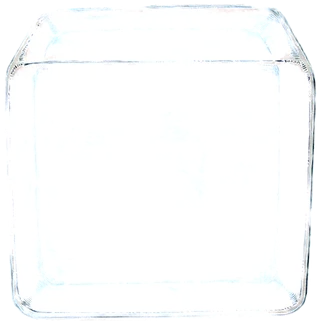
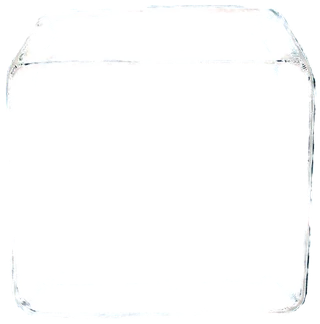
바 얼음 크기 균일 · 무작위 그림 · 와인 잔 1 · 2개, 커피콩 · 마시멜로 · 카르디아 그림, 거품 타일 텍스처 프롬프트
- 얼음: 잔마다 같은 크기 (록 11 · 하이볼 8 · 파인트 10 · 쿠페 8 · 와인 잔 8.5 · 고블릿 10), 그 크기가 들어가는 가장 낮은 자리부터 쌓기 · 그림 4종 중 얼음마다 무작위 (잔 내용 고정 난수) · 와인 잔 조금 1 · 많이 2 (사용자)
- 원본 얼음 3번도 다른 시안과 같은 후처리 3 (굽기 때 pp3)
- 잔 위 가니쉬: 커피콩 2 · 마시멜로 3 · 카르디아 2 (한 개짜리 그림, 콩 · 씨앗 3알 액면에 · 마시멜로 2개)
- 거품: 1차 8장(물체 모양)은 버리고 기포가 넓게 퍼진 타일링용 텍스처 프롬프트로 (bar_foam_1~8)

Claude-Session: https://claude.ai/code/session_017cJYj9TZkj6pZozWGwWEvA

diff --git a/src/ui/drinkart.ts b/src/ui/drinkart.ts
@@ -23,6 +23,10 @@ export const ICE_OPACITY = 0.75;
 /** 떠오른 얼음 중 맨 위 얼음이 수면 위로 나오는 몫 (그 얼음 높이에 대한 비율, 2026-11-04 사용자: 수면을 살짝 — 록 글라스는 조금, 하이볼은 많이 내림) */
 const ICE_RISE: Record<string, number> = { highball: 0.05 };
 const ICE_RISE_DEF = 0.15;
+/** 얼음 한 변 (잔마다 같은 크기 — 2026-11-04 사용자: 크기는 균일하게). 잔 안쪽 폭(위 → 아래)을 보고 정했다: 록 18.9 → 15.4 · 하이볼 15.2 → 10.2 · 파인트 24.6 → 14.5 · 쿠페 27 → 6.9 · 와인 잔 13.5 ~ 17.5 → 10 · 고블릿 24.7 → 12.3 */
+const ICE_SIZE: Record<string, number> = { rock: 11, highball: 8, pint: 10, coupe: 8, wine: 8.5, goblet: 10 };
+/** 얼음 개수 [조금, 많이] 예외 (기본: 3칸 잔 1 · 2, 4 · 5칸 잔 2 · 3) — 와인 잔은 볼이 좁아 1 · 2 (사용자) */
+const ICE_N: Record<string, [number, number]> = { wine: [1, 2] };
 let uid = 0;
 const hex = (c: string) => [1, 3, 5].map((i) => parseInt(c.slice(i, i + 2), 16));
 /** 흰색을 w 만큼 섞은 색 */
@@ -125,31 +129,34 @@ export function drinkSvg(d: Drink, left = 1, cls = 'drink', art: boolean | 'plai
   }
   // 얼음 (2026-11-04 사용자 요청): 조금 = 1 · 2개, 많이 = 2 · 3개 (작은 잔 3칸 / 큰 잔 4 · 5칸). 큰 얼음(잔 안쪽 폭의 62%, 최대 12)을 좌우로 조금씩 엇갈려 층으로 쌓는다.
   //   액면이 쌓인 맨 위보다 높으면 떠오른다 (맨 위 얼음이 4분의 1쯤 액면 위로), 아니면 바닥에 가라앉아 있다. 잔 그림 모드는 얼음 그림 (불투명도 ICE_OPACITY)
-  const nIce = d.ice === 'little' ? ((g?.slots ?? 3) >= 4 ? 2 : 1) : d.ice === 'lots' ? ((g?.slots ?? 3) >= 4 ? 3 : 2) : 0;
+  const iceN = ICE_N[d.glass] ?? ((g?.slots ?? 3) >= 4 ? [2, 3] : [1, 2]);
+  const nIce = d.ice === 'little' ? iceN[0] : d.ice === 'lots' ? iceN[1] : 0;
   if (nIce) {
     const wAt = (y: number): [number, number] => (ga ? wallsAt(ga, y) : [s.rim[0] + 1.5, s.rim[1] - 1.5]);
-    const seed = [...d.glass].reduce((t, ch) => t + ch.charCodeAt(0), d.fill.length);
-    const vOf = (k: number) => (k + seed) % ICE_ART.length; // 얼음 그림 4종을 번갈아
-    const stack = (yb: number) => {
+    // 얼음 그림은 얼음마다 무작위 (같은 잔은 늘 같게 — 다시 그릴 때 바뀌지 않도록 잔 내용으로 고정 난수)
+    const seed = [...`${d.glass}${d.fill.join('')}${d.garnish.join('')}${d.ice}`].reduce((t, ch) => (t * 31 + ch.charCodeAt(0)) % 9973, 7);
+    const vOf = (k: number) => Math.floor(rnd(seed + k * 17) * ICE_ART.length) % ICE_ART.length;
+    // 잔마다 같은 크기 (정사각 상자, 그림 비율 차이는 무시). 아래에서부터, 그 높이에 들어가는 가장 낮은 자리에 놓는다 (좁은 바닥 · 스템 잔 볼)
+    const sz = ga ? ICE_SIZE[d.glass] ?? 9 : Math.min(12, (s.rim[1] - s.rim[0] - 3) * 0.62), h = sz;
+    const fitW = (yb: number) => { const a = wAt(yb - 0.3), b = wAt(yb - h); return Math.min(a[1] - a[0], b[1] - b[0]); };
+    const stack = () => {
       const out: { cx: number; y: number; sz: number; h: number; k: number }[] = [];
-      let y = yb;
+      let y = s.bot;
       for (let k = 0; k < nIce; k++) {
-        const asp = ga ? ICE_ART[vOf(k)] : 1;
-        let [x0, x1] = wAt(y - 3);
-        let sz = Math.min(12, (x1 - x0) * 0.62);
-        [x0, x1] = wAt(y - sz * asp / 2); sz = Math.min(12, (x1 - x0) * 0.62);
-        if (sz < 2.5) break;
-        out.push({ cx: (x0 + x1) / 2 + (k % 2 ? 1 : -1) * (x1 - x0) * 0.12, y, sz, h: sz * asp, k });
-        y -= sz * asp * 0.86;
+        let yb = y;
+        while (yb > s.top && fitW(yb) < sz + 0.8) yb -= 0.25;
+        const [x0, x1] = wAt(yb - h / 2), room = Math.max(0, (x1 - x0 - sz - 0.8) / 2);
+        out.push({ cx: (x0 + x1) / 2 + (k % 2 ? 1 : -1) * Math.min(room, (x1 - x0) * 0.12), y: yb, sz, h, k });
+        y = yb - h * 0.86;
       }
       return out;
     };
-    // 바닥에 쌓은 크기 그대로 떠오른다 (위치만 옮김 — 다시 쌓으면 좁은 곳에서 얼음 수 · 크기가 바뀌어 툭 사라진다)
-    let cubes = stack(s.bot);
+    // 바닥에 쌓은 그대로 떠오른다 (위치만 옮김 — 다시 쌓으면 얼음 수 · 크기가 바뀌어 툭 사라진다)
+    let cubes = stack();
     const last = cubes[cubes.length - 1];
     if (last && lv > 0) { const want = yTop - last.h * (ICE_RISE[d.glass] ?? ICE_RISE_DEF), top = last.y - last.h; if (want < top) cubes = cubes.map((c) => ({ ...c, y: c.y - (top - want) })); }
     for (const c of cubes) {
-      if (ga) { const rot = (c.k % 2 ? 5 : -4) + (rnd(c.k + 41) - 0.5) * 5; body.push(`<image class="ice" href="${artURL(`bar_ice_${vOf(c.k)}.webp`)}" x="${(c.cx - c.sz / 2).toFixed(2)}" y="${(c.y - c.h).toFixed(2)}" width="${c.sz.toFixed(2)}" height="${c.h.toFixed(2)}" opacity="${ICE_OPACITY}" preserveAspectRatio="none" transform="rotate(${rot.toFixed(1)} ${c.cx.toFixed(2)} ${(c.y - c.h / 2).toFixed(2)})"/>`); }
+      if (ga) { const rot = (c.k % 2 ? 4 : -3) + (rnd(seed + c.k + 41) - 0.5) * 4; body.push(`<image class="ice" href="${artURL(`bar_ice_${vOf(c.k)}.webp`)}" x="${(c.cx - c.sz / 2).toFixed(2)}" y="${(c.y - c.h).toFixed(2)}" width="${c.sz.toFixed(2)}" height="${c.h.toFixed(2)}" opacity="${ICE_OPACITY}" preserveAspectRatio="none" transform="rotate(${rot.toFixed(1)} ${c.cx.toFixed(2)} ${(c.y - c.h / 2).toFixed(2)})"/>`); }
       else { const rot = (c.k % 2 ? 9 : -7) + (rnd(c.k + 41) - 0.5) * 8, cy = c.y - c.sz / 2; body.push(`<rect x="${(c.cx - c.sz / 2).toFixed(2)}" y="${(cy - c.sz / 2).toFixed(2)}" width="${c.sz.toFixed(2)}" height="${c.sz.toFixed(2)}" rx="${(c.sz * 0.17).toFixed(2)}" fill="#ffffff" fill-opacity=".22" stroke="#ffffff" stroke-opacity=".7" stroke-width="${(c.sz * 0.085).toFixed(2)}" transform="rotate(${rot.toFixed(1)} ${c.cx.toFixed(2)} ${cy.toFixed(2)})"/>`); }
     }
   }
@@ -161,7 +168,10 @@ export function drinkSvg(d: Drink, left = 1, cls = 'drink', art: boolean | 'plai
   const gArt = (gid: string) => (ga && PROP_ART[`ong_${gid}`] ? PROP_ART[`ong_${gid}`] : 0);
   const gImg = (gid: string, x: number, y: number, w: number, rot = 0, ox = x + w / 2, oy = y, clip = '') => `<image href="${artURL(`bar_ong_${gid}.webp`)}" x="${x.toFixed(2)}" y="${y.toFixed(2)}" width="${w.toFixed(2)}" height="${(w * gArt(gid)).toFixed(2)}" preserveAspectRatio="none"${rot ? ` transform="rotate(${rot} ${ox.toFixed(2)} ${oy.toFixed(2)})"` : ''}${clip ? ` clip-path="url(#${clip})"` : ''}/>`;
   for (const gid of d.garnish) {
-    if (gid === 'petal' && gArt('petal')) { const w = 5.2; body.push(gImg('petal', cx + 0.5, float - w * gArt('petal') * 0.55, w, -14, cx + 3, float)); }
+    if (gid === 'bean' && gArt('bean')) for (let k = 0; k < 3; k++) { const w = 2.3, hh = w * gArt('bean'), x = cx - 4.6 + k * 4.6 - w / 2; body.push(gImg('bean', x, float - hh * 0.5, w, 78 + k * 21, x + w / 2, float)); }
+    else if (gid === 'cardia' && gArt('cardia')) for (let k = 0; k < 3; k++) { const w = 1.8, x = cx - 4 + k * 4 - w / 2; body.push(gImg('cardia', x, float - w * gArt('cardia') * 0.55 + (k % 2) * 0.5, w, k * 40 - 30, x + w / 2, float)); }
+    else if (gid === 'marsh' && gArt('marsh') && lv > 0.04) for (let k = 0; k < 2; k++) { const w = 4, hh = w * gArt('marsh'), x = cx - 4.8 + k * 5.2; over.push(gImg('marsh', x, float - hh * 0.72 + k * 0.5, w, k ? 9 : -7, x + w / 2, float)); }
+    else if (gid === 'petal' && gArt('petal')) { const w = 5.2; body.push(gImg('petal', cx + 0.5, float - w * gArt('petal') * 0.55, w, -14, cx + 3, float)); }
     else if (gid === 'cardia') for (let k = 0; k < 3; k++) body.push(`<circle cx="${(cx - 4 + k * 4).toFixed(1)}" cy="${(float + 0.6 + (k % 2)).toFixed(1)}" r=".9" fill="#7a2d1e"/>`);
     else if (gid === 'bean') for (let k = 0; k < 3; k++) body.push(`<ellipse cx="${(cx - 4 + k * 4).toFixed(1)}" cy="${(float + 0.8).toFixed(1)}" rx="1.4" ry=".9" fill="#3a2214"/>`);
     else if (gid === 'petal') body.push(`<ellipse cx="${(cx + 3).toFixed(1)}" cy="${(float + 0.6).toFixed(1)}" rx="2.2" ry="1" fill="#e89ab0" transform="rotate(-18 ${cx + 3} ${float})"/>`);

diff --git a/src/ui/glassart.gen.ts b/src/ui/glassart.gen.ts
@@ -4,4 +4,4 @@ export const GLASS_ART: Record<string, { img: [number, number, number, number]; 
 /** 잔 속 얼음 그림 (public/art/bar_ice_<번호>.webp — 원본 3번 · 투명 프롬프트 1 · img2img 0.65 1번 · 6번 후처리) 의 세로 / 가로, 쌓인 얼음마다 번갈아 쓴다 */
 export const ICE_ART: number[] = [1.0119, 1.1027, 0.9966, 0.9966];
 /** 고른 잔 위 가니쉬 (ong_<가니쉬 id>) · 카운터 소품 (prop_<종류>) 그림 (public/art/bar_<키>.webp) 의 세로 / 가로 — 없는 것은 선 그림 */
-export const PROP_ART: Record<string, number> = {"ong_citrus":0.9969,"ong_crystal":1.9135,"ong_mint":1.6391,"ong_petal":0.9248,"ong_salt":0.0705,"prop_book":0.5962,"prop_bottle":3.3535,"prop_bowl":0.7149,"prop_box":0.7077,"prop_candle":2.1636,"prop_cushion":1.1378,"prop_flag":0.9942,"prop_gem":1.752,"prop_guitar":2.6492,"prop_jar":1.7385,"prop_paper":0.4698,"prop_pot":1.027,"prop_sign":1.1508,"prop_tent":0.701,"prop_tool":0.5471,"prop_vial":2.4904};
+export const PROP_ART: Record<string, number> = {"ong_bean":1.5327,"ong_cardia":1.3582,"ong_citrus":0.9969,"ong_crystal":1.9135,"ong_marsh":1.6008,"ong_mint":1.6391,"ong_petal":0.9248,"ong_salt":0.0705,"prop_book":0.5962,"prop_bottle":3.3535,"prop_bowl":0.7149,"prop_box":0.7077,"prop_candle":2.1636,"prop_cushion":1.1378,"prop_flag":0.9942,"prop_gem":1.752,"prop_guitar":2.6492,"prop_jar":1.7385,"prop_paper":0.4698,"prop_pot":1.027,"prop_sign":1.1508,"prop_tent":0.701,"prop_tool":0.5471,"prop_vial":2.4904};

diff --git a/scripts/bar_props_build.py b/scripts/bar_props_build.py
@@ -85,9 +85,19 @@ for gid, (top, floor, inset, rimf, span) in GEOM.items():
 
 # 얼음 그림 4종 (2026-11-04 사용자 선택, 쌓인 얼음마다 번갈아): 0 원본 3번 · 1 투명 프롬프트 1 · 2 · 3 img2img 0.65 1번 · 6번 + 후처리 3 (art/bar_items_pick.json)
 ICE_SRC = ['bar_ice_cube', 'bar_ice_clear', 'bar_ice_i2i_a', 'bar_ice_i2i_b']
+def pp3(im):
+    """후처리 3 (얼음 몸통 걷기): 알파 a → a · smoothstep(중앙값 + 0.03, 97% 값, a) — 테두리 · 반사광만 남는다"""
+    A = np.asarray(im).astype(np.float32) / 255; a = A[..., 3]; m = a[a > 0.03]
+    lo, hi = float(np.median(m)) + 0.03, float(np.quantile(m, 0.97)); t = np.clip((a - lo) / (hi - lo), 0, 1)
+    A[..., 3] = a * t * t * (3 - 2 * t)
+    return Image.fromarray((A * 255).astype(np.uint8), 'RGBA')
+
+
+ICE_PP = {'bar_ice_cube'}  # 원본 3번도 다른 시안과 같은 후처리로 더 투명하게 (2026-11-04 사용자) — 나머지 셋은 picked 가 이미 후처리됨
 ice = []
 for src, dst, width in [('bar_printer_front', 'bar_printer', 900), ('bar_bell_front', 'bar_bell', 560)] + [(k, f'bar_ice_{i}', 320) for i, k in enumerate(ICE_SRC)]:
     im = Image.open(f'art/picked/{src}.webp').convert('RGBA')
+    if src in ICE_PP: im = pp3(im)
     s = width / im.width
     im.resize((width, max(1, round(im.height * s))), Image.LANCZOS).save(f'public/art/{dst}.webp', 'WEBP', quality=86, method=6)
     print(f'{dst}: {width}×{round(im.height * s)}')

diff --git a/docs/BAR_OPS.md b/docs/BAR_OPS.md
@@ -86,7 +86,7 @@
 - 잔 그림은 음료와 따로 한 겹으로 그려 **color-dodge · 불투명도 0.6** 으로 배경(카운터 · 벽 · 인물)과 섞는다 (normal · screen · color-dodge 17종 · 비율을 비교해 고름). 쓰는 곳: 제조대 큰 잔 · 완성 장면 · 잔 진열 · 카운터 위 잔 (`drinkSvg(…, true)` = 음료 · 잔 그림 · 테두리 가니쉬 세 겹 `.dk`). 종이 위(영수증 사진 · 레시피북)는 섞지 않는다 (`'plain'`, 밝은 바탕에서 color-dodge 는 하얗게 날아간다).
 - 섞임이 배경까지 닿도록 잔과 그 조상은 고립 묶음을 만들지 않는다: 큰 잔 · 완성 장면의 그림자 filter 대신 잔 밑 그림자 타원, 카운터 잔은 translate 대신 margin, `.bar-fronts` 는 z-index 없이 칸 안 요소마다 카운터 위 z-index.
 - 잔 그림은 조금 위에서 본 모습이라 층 경계를 그 높이 수평 단면 타원의 **앞쪽 호**(가운데가 아래로 처짐)로 그리고 흐림으로 섞는다. 액면 = 단면 타원 윗면 (조명을 받아 맨 위 층 색에 흰색 35% · 불투명도 +0.12 — 사용자), 바닥 = 바닥 타원 앞쪽 호. 거품은 텍스처를 겹쳐 그릴 예정 (`bar_foam_1~8` 시안). 타원 세로/가로 비는 잔마다 그림의 테두리 · 바닥 타원을 재서 정했다 (`scripts/bar_props_build.py` K, 테두리 0.11 ~ 0.17 → 바닥 0.16 ~ 0.22).
-- 얼음 (같은 날 사용자 요청): **없음 · 조금 · 많이** (+ 프로즌). 조금 = 1 · 2개, 많이 = 2 · 3개 (작은 잔 3칸 / 큰 잔 4 · 5칸). 큰 얼음(잔 안쪽 폭의 62%, 최대 12)을 좌우로 조금씩 엇갈려 **층으로 쌓고**, 액면이 쌓인 맨 위보다 높으면 쌓인 모양 그대로 떠오른다 (맨 위 얼음이 수면 위로 살짝 — 그 얼음 높이의 15%, 하이볼 5%. 마시면 가라앉아 바닥에. 잔 안쪽 영역은 테두리까지 열어 둬 수면 위 얼음이 잘리지 않는다). 레시피: 하이볼 7잔 · 얼음 씹는 소다(파인트) = 많이, 록 글라스 3잔(앵커 온더록 · 쓴 약 한 방울 · 수정 칵테일) = 조금. 주문 조건 '얼음 조금만 넣어서' · '얼음 가득 넣어서'. 옛 저장의 온더록은 같은 레시피의 얼음으로 (없으면 많이, `normIce`). 얼음은 그림 4종을 쌓인 얼음마다 번갈아 (사용자 선택, 불투명도 0.75 `ICE_OPACITY`): 원본 시안 3번 (`bar_ice_cube` 2차 — 1차 6장은 아이소메트릭 · 불투명이라 다시 뽑음) · 투명 프롬프트 1 (`bar_ice_clear`) · 원본 3번 img2img 강도 0.65 의 1번 · 6번 + 후처리 3 (몸통 알파를 smoothstep 으로 걷어 테두리만, `art/bar_items_pick.json`) → `public/art/bar_ice_0~3.webp`, 선 잔(사건 소품)은 둥근 사각형.
+- 얼음 (같은 날 사용자 요청): **없음 · 조금 · 많이** (+ 프로즌). 조금 = 1 · 2개, 많이 = 2 · 3개 (작은 잔 3칸 / 큰 잔 4 · 5칸, 와인 잔은 볼이 좁아 1 · 2). 얼음은 **잔마다 같은 크기** (사용자: 균일하게 — 록 11 · 하이볼 8 · 파인트 10 · 쿠페 8 · 와인 잔 8.5 · 고블릿 10, 48 × 72 상자 단위)로, 아래에서부터 그 크기가 들어가는 가장 낮은 자리에 좌우로 조금씩 엇갈려 **층으로 쌓고**, 액면이 쌓인 맨 위보다 높으면 쌓인 모양 그대로 떠오른다 (맨 위 얼음이 수면 위로 살짝 — 그 얼음 높이의 15%, 하이볼 5%. 마시면 가라앉아 바닥에. 잔 안쪽 영역은 테두리까지 열어 둬 수면 위 얼음이 잘리지 않는다). 레시피: 하이볼 7잔 · 얼음 씹는 소다(파인트) = 많이, 록 글라스 3잔(앵커 온더록 · 쓴 약 한 방울 · 수정 칵테일) = 조금. 주문 조건 '얼음 조금만 넣어서' · '얼음 가득 넣어서'. 옛 저장의 온더록은 같은 레시피의 얼음으로 (없으면 많이, `normIce`). 얼음은 그림 4종 중 얼음마다 무작위 (잔 내용으로 고정한 난수 — 다시 그려도 같다, 사용자 선택, 불투명도 0.75 `ICE_OPACITY`): 원본 시안 3번 (+ 후처리 3, 굽기 때) (`bar_ice_cube` 2차 — 1차 6장은 아이소메트릭 · 불투명이라 다시 뽑음) · 투명 프롬프트 1 (`bar_ice_clear`) · 원본 3번 img2img 강도 0.65 의 1번 · 6번 + 후처리 3 (몸통 알파를 smoothstep 으로 걷어 테두리만, `art/bar_items_pick.json`) → `public/art/bar_ice_0~3.webp`, 선 잔(사건 소품)은 둥근 사각형.
 
 1단계에서 함께 넣은 것: 붓기 · 얼음 소리 (`sound.ts` `pour` · `ice`), 병을 누르면 그 색 물줄기와 새 층이 아래에서 차오른다 (`prepFx`), 벨 뒤 완성 장면 1.3초 (다 만든 잔 + 이름표, 누르면 바로 · 움직임 줄이기면 생략, `serveCut`), 내준 뒤 '별로 · 놓친 것' 꼬리표를 띄우지 않는다 — 만족은 손님의 이모티콘 · 대사로만, 맞춘 것 ✓ · 놓친 것 ✗ 은 그 잔을 누르면 이름 옆에.
 
@@ -216,7 +216,7 @@
 | 제조대 배경 | `bg_prep_wall` | 검정 벽지 + 노란 백라이트 (2026-11-03) |
 | 빈 유리잔 6종 · 정면 출력기 · 탁상 벨 · 얼음 4종 | 12 | NovelAI — 넣음 (잔 · 출력기 · 얼음 = 새로 그리기, 벨 = img2img). 굽기 `scripts/bar_props_build.py` → `public/art/bar_glass_<잔 id>.webp` · `bar_printer.webp` · `bar_bell.webp` · `bar_ice_0~3.webp` |
 | 액체 층 · 얼음 · 잔 위 가니쉬 | — | 코드 (`src/ui/drinkart.ts`, 잔 그림 뒤 · 위에 얹는다) |
-| 잔 위 가니쉬 그림 (`bar_ong_<가니쉬 id>`) | 10 | NovelAI 무료 — 고른 5종 넣음 (시트러스 1 · 솔트 림 2 · 민트 1 · 꽃잎 4 · 설탕 조각 4, 2026-11-04). 시트러스는 통째가 아니라 반으로 잘라 테두리에 건다 (사용자). 커피콩 · 마시멜로 · 카르디아 씨앗은 한 개만 그려 여러 번 얹는다 (다시 뽑는 중), 라임 · 휘핑크림은 다시 뽑기 — 그 전까지 선 그림 |
+| 잔 위 가니쉬 그림 (`bar_ong_<가니쉬 id>`) | 10 | NovelAI 무료 — 고른 8종 넣음 (시트러스 1 · 솔트 림 2 · 민트 1 · 꽃잎 4 · 설탕 조각 4, 2026-11-04). 시트러스는 통째가 아니라 반으로 잘라 테두리에 건다 (사용자). 커피콩 2 · 마시멜로 3 · 카르디아 씨앗 2 는 한 개만 그린 시안을 골라 여러 번 얹는다 (콩 · 씨앗 3알은 액면에 뜨고, 마시멜로 2개는 액면 위로). 라임 · 휘핑크림은 다시 뽑기 (방향은 사용자가 나중에) — 그 전까지 선 그림 |
 | 카운터 소품 그림 (`bar_prop_<종류>`, `ui/barprops.ts` 종류마다) | 22 | NovelAI 무료 — 고른 16종 넣음 (서류 · 책 · 공구 · 술병 · 땅콩버터 병 · 상자 · 팻말 · 기타 · 깃발 · 텐트 · 쿠션 · 냄비 · 라면 그릇 · 초 · 약병 · 백수정). 카메라 · 체스판 · 홀로그램 · 커피머신 · 휴대 단말 · 접시는 다시 뽑기 — 그 전까지 아이콘. 소품 칸은 인물 높이의 0.36 (0.16 → 0.24 → 0.36, 사용자), 오른쪽 끝을 카운터 잔 왼쪽 가장자리에 맞춘다 |
 | 이모티콘 13종 · 코인 | — | 코드 (SVG) |
 
